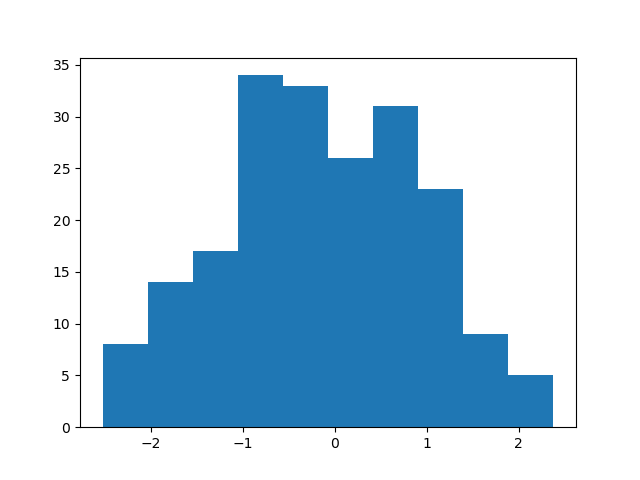
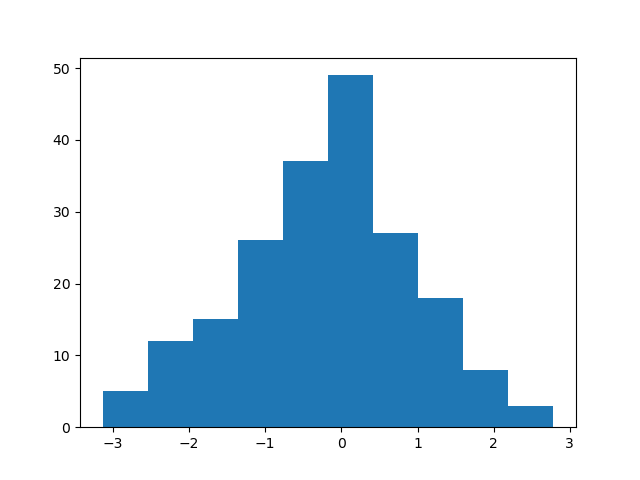
generic commit

diff --git a/scripts/transport_kernel.py b/scripts/transport_kernel.py
@@ -1,6 +1,7 @@
 import torch.nn as nn
 import torch
 import numpy as np
+import matplotlib.pyplot as plt
 
 
 def radial_kernel(x,x_tilde, l, sigma):
@@ -49,6 +50,7 @@ class TransportKernel(nn.Module):
         self.params = base_params
         self.X = torch.tensor(base_params['X'], device=self.device, dtype = self.dtype)
         self.Y = torch.tensor(base_params['Y'], device = self.device, dtype = self.dtype)
+        self.N = len(self.X)
 
         self.fit_kernel = self.get_fit_kernel()
         self.fit_kXX = self.get_kXX(self.fit_kernel)
@@ -76,24 +78,23 @@ class TransportKernel(nn.Module):
         return nn.init.normal_(Lambda_0)
 
 
+    def get_kX1X2(self, kernel, X_1, X_2):
+        N_1 = len(X_1)
+        N_2 = len(X_2)
+        k_X1X2 = torch.zeros((N_1,N_2), device = self.device, dtype= self.dtype)
+        for i,xi in enumerate(X_1):
+            for j,xj in enumerate(X_2):
+                k_X1X2[i,j] += kernel(xi, xj)
+        return k_X1X2
+
     def get_kXX(self, kernel):
         X = self.X
-        N = len(X)
-        k_XX = torch.zeros((N,N), device = self.device, dtype= self.dtype)
-        for i,xi in enumerate(X):
-            for j,xj in enumerate(X):
-                k_XX[i,j] += kernel(xi, xj)
-        return k_XX
+        return self.get_kX1X2(kernel, X, X)
 
 
     def get_kXx(self, kernel, X_tilde):
         X = self.X
-        Kxx_list = []
-        for xj in X_tilde:
-            k_Xxj = torch.tensor([kernel(xi, xj) for xi in X], device = self.device, dtype = self.dtype)
-            Kxx_list.append(k_Xxj)
-        k_Xx = torch.stack(Kxx_list)
-        return k_Xx
+        return self.get_kX1X2(kernel, X, X_tilde)
 
 
     def map(self, x):
@@ -107,9 +108,25 @@ class TransportKernel(nn.Module):
         Y = self.Y
         Lambda  = self.Lambda
         diff_vec =  fit_kXX @ Lambda - Y
-
         return torch.trace(diff_vec.T @ mmd_kXX @ diff_vec)
 
+    def loss_fit2(self):
+        Y = self.Y
+        Lambda  = self.Lambda
+        fit_kXX = self.fit_kXX
+        N = self.N
+        mmd_kernel = self.mmd_kernel
+
+        fit_loss = 0
+        V = fit_kXX @ Lambda
+
+        for i in range(N):
+            for j in range(N):
+                v_i = V[i]
+                v_j = V[j]
+                y_j = Y[j]
+                fit_loss += mmd_kernel(v_i,v_j) - 2*mmd_kernel(v_i, y_j)
+        return fit_loss
 
     def loss_reg(self):
         fit_kXX = self.fit_kXX
@@ -121,7 +138,7 @@ class TransportKernel(nn.Module):
         loss_fit = self.loss_fit()
         loss_reg  = self.loss_reg()
 
-        loss = self.loss_fit() + self.loss_reg()
+        loss = self.loss_fit2() + self.loss_reg()
         loss_dict = {'fit': loss_fit.detach().cpu(), 'reg': loss_reg.detach().cpu(), 'total': loss.detach().cpu()}
         return loss, loss_dict
 

diff --git a/scripts/fit_kernel.py b/scripts/fit_kernel.py
@@ -3,6 +3,7 @@ import torch
 import numpy as np
 from transport_kernel import TransportKernel, get_kernel
 import matplotlib.pyplot as plt
+import random
 
 
 def clear_plt():
@@ -48,7 +49,7 @@ def update_list_dict(Dict, update):
     return Dict
 
 
-def train_kernel_transport(kernel_model, n_iters = 20000):
+def train_kernel_transport(kernel_model, n_iters = 5000):
     optimizer = torch.optim.Adam(kernel_model.parameters(), lr=kernel_model.params['learning_rate'])
     Loss_dict = {'n_iter': [], 'fit': [], 'reg': [], 'total': []}
     kernel_model.train()
@@ -83,7 +84,6 @@ def sample_hmap(sample, save_loc, bins = 10, d = 2):
     return True
 
 
-
 def run():
     X = sample_uniform(N = 200, d = 1)
     Y = sample_normal(N = 200, d = 1)
@@ -91,18 +91,23 @@ def run():
     sample_hmap(X, '../data/X_hmap.png', d = 1)
     sample_hmap(Y, '../data/Y_hmap.png', d = 1)
 
-    fit_kernel_params = {'name': 'radial', 'l': 1, 'sigma': 1}
-    mmd_kernel_params = {'name': 'radial', 'l': 1, 'sigma': 1}
+    fit_kernel_params = {'name': 'radial', 'l': 10, 'sigma': 1}
+    mmd_kernel_params = {'name': 'radial', 'l': 10, 'sigma': 1}
 
     model_params = {'X': X, 'Y': Y, 'fit_kernel_params': fit_kernel_params, 'mmd_kernel_params': mmd_kernel_params,
-                    'reg_lambda': 1, 'print_freq': 100, 'learning_rate':.001}
+                    'reg_lambda': 1, 'print_freq': 1, 'learning_rate':.001}
 
     kernel_model = TransportKernel(model_params)
     train_kernel_transport(kernel_model)
 
-    X_tilde = sample_uniform(200, d = 1)
+    #X_tilde = sample_uniform(200, d = 1)
     Y_tilde = kernel_model.map(X).detach().cpu().numpy()
     sample_hmap(Y_tilde, '../data/Y_tilde_hmap.png', d = 1)
+
+
+
+
+
 
 if __name__=='__main__':
     run()
